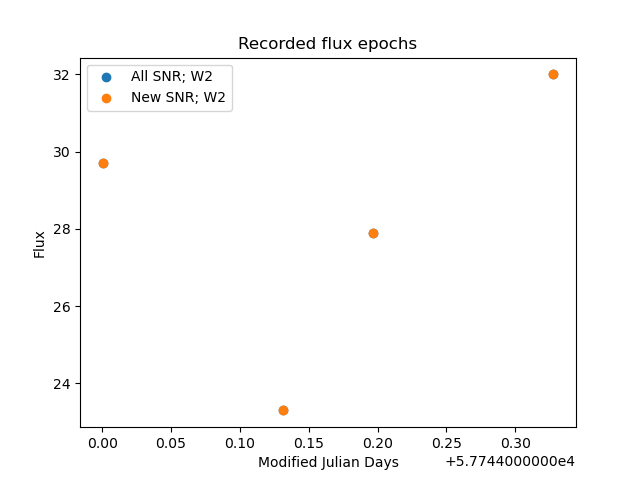
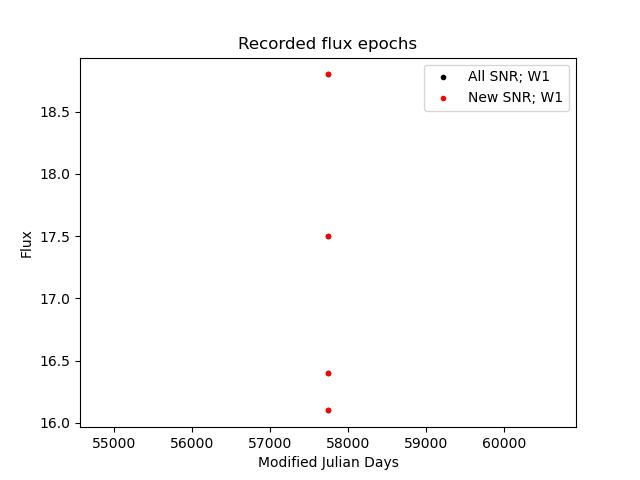
Rerouted file directories

diff --git a/mpc_wise_functions.py b/mpc_wise_functions.py
@@ -5,6 +5,7 @@ from astropy.table import Table
 import matplotlib.pyplot as plt
 import pandas as pd
 import numpy as np
+from matplotlib.ticker import MaxNLocator
 from numpy import source
 
 
@@ -255,21 +256,26 @@ def generate_source_ids_dict(mpc_file, wise_file, bands):
 
 def flux_scatter(mpc_code, band):
     new_data = Table.read(f"ne_inputs/{mpc_code}_{band}bands.tbl", format='ipac')
-    mjd_new = new_data['mjd']
-    w1_new = new_data['w1flux']
-    w2_new = new_data['w2flux']
-    snr1_new = new_data["w1snr"]
-    snr2_new = new_data["w2snr"]
+    mjd_new = list(new_data['mjd'])
+    w1_new = list(new_data['w1flux'])
+    w2_new = list(new_data['w2flux'])
+    snr1_new = list(new_data["w1snr"])
+    snr2_new = list(new_data["w2snr"])
 
     all_data = Table.read(f"mcmc_inputs/{mpc_code}_{band}bands.tbl", format='ipac')
-    mjd_all = all_data['mjd']
-    w1_all = all_data['w1flux']
-    w2_all = all_data['w2flux']
-    snr1_all = all_data["w1snr"]
-    snr2_all = all_data["w2snr"]
+    mjd_all = list(all_data['mjd'])
+    w1_all = list(all_data['w1flux'])
+    w2_all = list(all_data['w2flux'])
+    snr1_all = list(all_data["w1snr"])
+    snr2_all = list(all_data["w2snr"])
 
-    plt.scatter(mjd_all, w1_all, label='All W1')
-    plt.scatter(mjd_new, w1_new, label='New W1')
+    for i in range(len(mjd_new)):
+        mjd_new[i] = int(mjd_new[i])
+    for i in range(len(mjd_all)):
+        mjd_all[i] = int(mjd_all[i])
+
+    plt.scatter(mjd_all, w1_all, label='All W2', marker=".", color="black")
+    plt.scatter(mjd_new, w1_new, label='New W2', marker=".", color="red")
     plt.title("Recorded flux epochs")
     plt.xlabel("Modified Julian Days")
     plt.ylabel("Flux")
@@ -277,8 +283,8 @@ def flux_scatter(mpc_code, band):
     plt.savefig(f"flux_plot/{mpc_code}_W1.png")
     plt.clf()
 
-    plt.scatter(mjd_all, w2_all, label='All W2')
-    plt.scatter(mjd_new, w2_new, label='New W2')
+    plt.scatter(mjd_all, w2_all, label='All W2', marker=".", color="black")
+    plt.scatter(mjd_new, w2_new, label='New W2', marker=".", color="red")
     plt.title("Recorded flux epochs")
     plt.xlabel("Modified Julian Days")
     plt.ylabel("Flux")
@@ -286,8 +292,8 @@ def flux_scatter(mpc_code, band):
     plt.savefig(f"flux_plot/{mpc_code}_W2.png")
     plt.clf()
 
-    plt.scatter(mjd_all, snr1_all, label='All SNR; W1')
-    plt.scatter(mjd_new, snr1_new, label='New SNR; W1')
+    plt.scatter(mjd_all, snr1_all, label='All SNR; W1', marker=".", color="black")
+    plt.scatter(mjd_new, snr1_new, label='New SNR; W1', marker=".", color="red")
     plt.title("Recorded flux epochs")
     plt.xlabel("Modified Julian Days")
     plt.ylabel("Flux")
@@ -295,13 +301,13 @@ def flux_scatter(mpc_code, band):
     plt.savefig(f"snr_plot/{mpc_code}_W1.png")
     plt.clf()
 
-    plt.scatter(mjd_all, snr2_all, label='All SNR; W2')
-    plt.scatter(mjd_new, snr2_new, label='New SNR; W2')
+    plt.scatter(mjd_all, snr2_all, label='All SNR; W2', marker=".", color="black")
+    plt.scatter(mjd_new, snr2_new, label='New SNR; W2', marker=".", color="red")
     plt.title("Recorded flux epochs")
     plt.xlabel("Modified Julian Days")
     plt.ylabel("Flux")
     plt.legend()
-    plt.savefig(f"snr_plot/{mpc_code}_W1.png")
+    plt.savefig(f"snr_plot/{mpc_code}_W2.png")
     plt.clf()
 
 

diff --git a/update_mcmc.py b/update_mcmc.py
@@ -2,11 +2,10 @@
 This file implements a script for generating input tables compatible with
 tbl2MCMCin.py to be eventually used in Ned's MCMC model.
 """
+import os
 from ds9_interface_functions import writeMCMC_table, generate_full_table
 from mpc_wise_functions import flux_scatter
-from epoch_JD_calendar import JD_plot
-import warnings
-import os
+from epoch_JD_calendar import mjd_plot
 
 
 files = os.listdir("loader_data")
@@ -25,8 +24,11 @@ for neo in epoch_files:
     for band in epoch_files[neo]:
         wise_file = f"input_data/{neo}{band_lookup[band]}"
         epoch_file = f"{neo}_{band}band.txt"
+        print(f"Writing new input for {band} band data of {neo}.")
         writeMCMC_table(epoch_file, neo, band)
-        JD_plot(neo, band)
-        generate_full_table(band, neo)
-        flux_scatter(neo, band)
+        print(f"Generating MJD plot for {band} band data of {neo}.")
+        mjd_plot(neo, band)
         print(f"Writing MCMC input for {band} band data of {neo}.")
+        generate_full_table(band, neo)
+        print(f"Generating comparison plots for {band} band data of {neo}.")
+        flux_scatter(neo, band)

diff --git a/ds9_interface_functions.py b/ds9_interface_functions.py
@@ -292,7 +292,7 @@ def writeMCMC_table(sid_file, mpc_code, band, ne=True):
     mask = np.isin(wise_sids, unique_sids)
     t_new = data_object[mask]
     if ne:
-        t_new.write(f"ne_inputs/{mpc_code}_{band}bands.tbl", 
+        t_new.write(f"new_inputs/{mpc_code}_{band}bands.tbl", 
             format="ipac", overwrite=True)
     else:
         t_new.write(f"mcmc_inputs/{mpc_code}_{band}bands.tbl", 
@@ -314,7 +314,7 @@ def return_new_sids(band, mpc_code):
     # Reads in all WISE source ids for a given asteroid and band set
     new_sids = []
     try:
-        wise_file = f"ne_inputs/{mpc_code}_{band}bands.tbl"
+        wise_file = f"new_inputs/{mpc_code}_{band}bands.tbl"
         data_object = Table.read(wise_file, format='ipac')
         sids = list(data_object['source_id'])
         sids = [sid[0:9] for sid in sids]
@@ -381,7 +381,6 @@ def generate_full_table(band, mpc_code):
         existing_sids.append(existing_epochs[epoch][0][:9])
 
     new_sids = return_new_sids(band, mpc_code)
-    print(new_sids)
     all_sids = existing_sids + new_sids
 
     band_lookup = {'2': ".tbl", '3': "_3band.tbl", '4': "_cryo.tbl"}

diff --git a/epoch_JD_calendar.py b/epoch_JD_calendar.py
@@ -4,10 +4,16 @@ import sys
 from mpc_wise_functions import *
 import matplotlib.pyplot as plt
 import numpy as np
+from astropy.utils.exceptions import AstropyUserWarning
+import warnings
 from astropy.time import Time
 
 
-def JD_plot(mpc_code, bands):
+def mjd_plot(mpc_code, bands):
+    
+    warnings.simplefilter('ignore', category=AstropyUserWarning)
+    warnings.simplefilter('ignore', category=UserWarning)    
+
     #Setting up x-axis for histogram
     #band_lookup = {'2': "", '3': "_3band.tbl", '4': "_cryo.tbl"}
 
